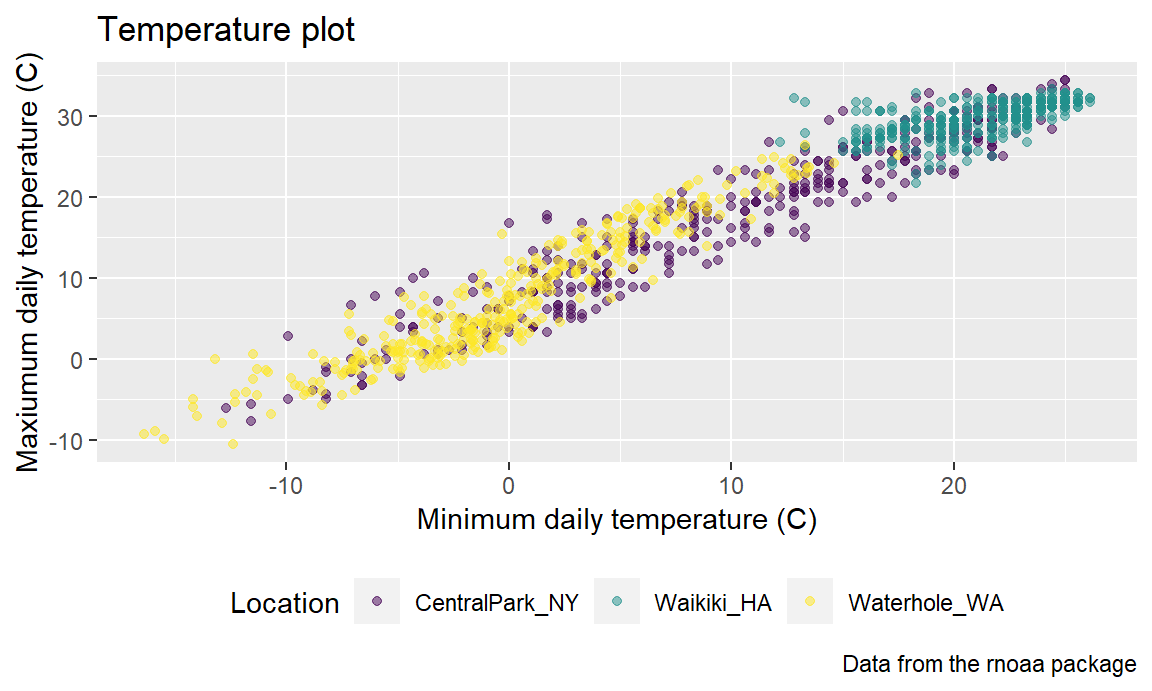
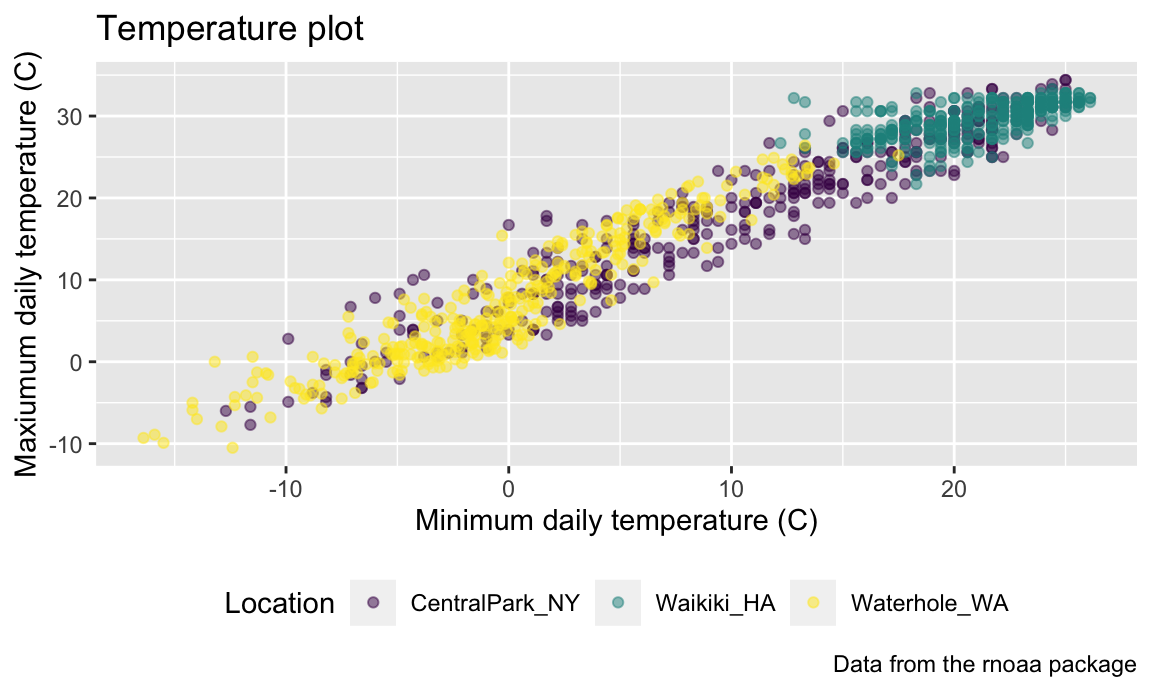
added color palettes. also reknitted which i guess changed all the figures?

diff --git a/visualization_pt2.html b/visualization_pt2.html
@@ -501,22 +501,16 @@ div.tocify {
 <pre class="r"><code>devtools::install_github(&quot;thomasp85/patchwork&quot;)</code></pre>
 <p>Next I’ll load the relevant packages for this page.</p>
 <pre class="r"><code>library(tidyverse)
-## Warning: package &#39;tidyverse&#39; was built under R version 3.6.3
-## -- Attaching packages ---------------------------------------------------- tidyverse 1.3.0 --
-## v ggplot2 3.3.0     v purrr   0.3.2
-## v tibble  2.1.3     v dplyr   0.8.3
-## v tidyr   1.0.2     v stringr 1.4.0
-## v readr   1.3.1     v forcats 0.5.0
-## Warning: package &#39;ggplot2&#39; was built under R version 3.6.3
-## Warning: package &#39;tidyr&#39; was built under R version 3.6.3
-## Warning: package &#39;forcats&#39; was built under R version 3.6.3
-## -- Conflicts ------------------------------------------------------- tidyverse_conflicts() --
+## ── Attaching packages ─────────────────────────────────────────────────────── tidyverse 1.3.0 ──
+## ✓ ggplot2 3.3.2     ✓ purrr   0.3.4
+## ✓ tibble  3.0.3     ✓ dplyr   1.0.2
+## ✓ tidyr   1.1.2     ✓ stringr 1.4.0
+## ✓ readr   1.3.1     ✓ forcats 0.5.0
+## ── Conflicts ────────────────────────────────────────────────────────── tidyverse_conflicts() ──
 ## x dplyr::filter() masks stats::filter()
 ## x dplyr::lag()    masks stats::lag()
 library(ggridges)
-## Warning: package &#39;ggridges&#39; was built under R version 3.6.3
-library(patchwork)
-## Warning: package &#39;patchwork&#39; was built under R version 3.6.3</code></pre>
+library(patchwork)</code></pre>
 <p>We’ll still work with NOAA weather data, which is loaded using the same code as in <a href="visualization_pt1.html">Visualization Pt 1</a>.</p>
 <pre class="r"><code>weather_df = 
   rnoaa::meteo_pull_monitors(
@@ -702,7 +696,7 @@ ggp_temp_plot
 </div>
 <div id="setting-options" class="section level3">
 <h3>Setting options</h3>
-<p>In addition to figure sizing, I include a few other figure preferences in global options declared at the outset of each .Rmd file (this code chunk just gets copy-and-pasted to every new file).</p>
+<p>In addition to figure sizing, I include a few other figure preferences in global options declared at the outset of each .Rmd file (this code chunk just gets copy-and-pasted to the beginning of every new file).</p>
 <pre class="r"><code>library(tidyverse)
 
 knitr::opts_chunk$set(
@@ -711,8 +705,16 @@ knitr::opts_chunk$set(
   out.width = &quot;90%&quot;
 )
 
-theme_set(theme_bw() + theme(legend.position = &quot;bottom&quot;))</code></pre>
-<p>There are ways to set color preferences globally as well (for example, to use <code>viridis</code> color palettes everywhere), although they’re a bit more involved.</p>
+theme_set(theme_minimal() + theme(legend.position = &quot;bottom&quot;))
+
+options(
+  ggplot2.continuous.colour = &quot;viridis&quot;,
+  ggplot2.continuous.fill = &quot;viridis&quot;
+)
+
+scale_colour_discrete = scale_colour_viridis_d
+scale_fill_discrete = scale_fill_viridis_d</code></pre>
+<p>There are ways to set color preferences globally as well (for example, to use <code>viridis</code> color palettes everywhere, all the time), although they’re a bit more involved.</p>
 </div>
 <div id="data-argument-in-geom_" class="section level3">
 <h3>Data argument in <code>geom_*</code></h3>
@@ -934,7 +936,7 @@ $(document).ready(function ()  {
       theme: "bootstrap3",
       context: '.toc-content',
       hashGenerator: function (text) {
-        return text.replace(/[.\\/?&!#<>]/g, '').replace(/\s/g, '_').toLowerCase();
+        return text.replace(/[.\\/?&!#<>]/g, '').replace(/\s/g, '_');
       },
       ignoreSelector: ".toc-ignore",
       scrollTo: 0
